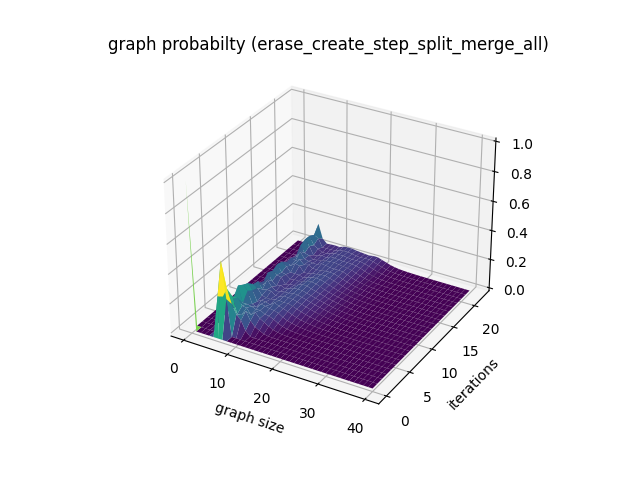
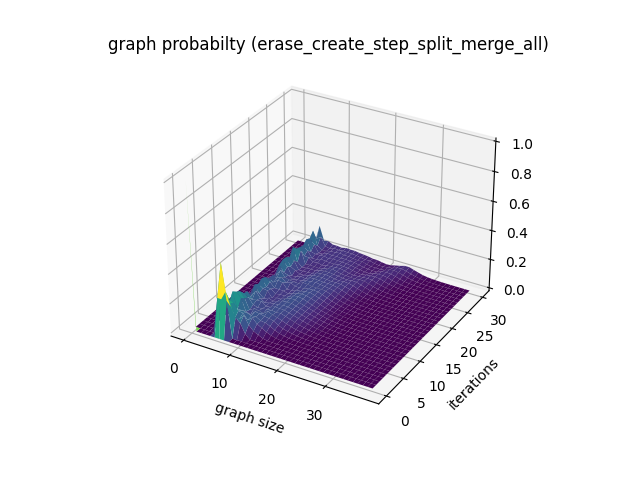
parallelized graph reduction and changed discard_all into reduce_and_discard

diff --git a/v5/quantum/state.hpp b/v5/quantum/state.hpp
@@ -4,7 +4,7 @@
 #include "../classical/graph.hpp"
 #include <tbb/concurrent_unordered_map.h>
 #include <tbb/concurrent_vector.h>
-#include <map>
+#include <tbb/concurrent_map.h>
 
 // check zero probability
 bool inline check_zero(const std::complex<double>& mag) {
@@ -57,7 +57,7 @@ public:
 	void step_all(std::function<tbb::concurrent_vector<std::pair<std::shared_ptr<graph_t>, std::complex<double>>>(std::shared_ptr<graph_t> g)> rule);
 
 	// limit graphs
-	void discard_graphs(size_t n_graphs);
+	void reduce_and_discard(size_t n_graphs);
 };
 
 // insert operators 
@@ -66,45 +66,67 @@ void state::reduce_all() {
 		printf("reducing %ld graphs...\n", graphs_.size());
 	#endif
 
-    for(auto it = graphs_.begin(); it != graphs_.end();) {
+	graph_map_t buff;
+	buff.swap(graphs_);
+
+	#pragma omp parallel
+	#pragma omp single
+    for(auto it = buff.begin(); it != buff.end();) {
     	// range of similar graphs to delete
-    	auto upper = graphs_.equal_range(it->first).second;
+    	auto const graph = it->first;
+    	auto const range = buff.equal_range(graph);
 
-    	for(auto jt = std::next(it); jt != upper; ++jt)
-        	it->second += jt->second;
+    	// next iteration
+    	it = range.second;
 
-    	// if the first graphgs has a zero probability, erase the whole range
-    	if (!check_zero(it->second))
-    		++it;
-    	
-    	it = graphs_.unsafe_erase(it, upper);
+    	#pragma omp task
+    	{
+    		std::complex<double> acc = 0;
+    		for(auto jt = range.first; jt != range.second; ++jt)
+        		acc += jt->second;
+
+	    	// if the first graphgs has a zero probability, erase the whole range
+	    	if (!check_zero(acc))
+	    		graphs_.insert({graph, acc});
+    	}
     }
+
+    buff.clear();
 }
 
-void state::discard_graphs(size_t n_graphs) {
+void state::reduce_and_discard(size_t n_graphs) {
 	if (graphs_.size() < n_graphs)
-		return;
+		return reduce_all();
 
-	/* compute sure threshold proba */
-	double threshold_proba = 1 / (double)n_graphs;
-	size_t const num_graph_delete = graphs_.size() - n_graphs;
+	tbb::concurrent_multimap<double, std::pair<std::shared_ptr<graph_t>, std::complex<double>>> map;
 
-	std::multimap<double, std::shared_ptr<graph_t>> map;
-	for (auto & [graph, mag] : graphs_) {
-		double proba = std::norm(mag);
+	#pragma omp parallel
+	#pragma omp single
+    for(auto it = graphs_.begin(); it != graphs_.end();) {
+    	// range of similar graphs to delete
+    	auto const graph = it->first;
+    	auto const range = graphs_.equal_range(graph);
 
-		if (proba < threshold_proba) {
-			map.insert({proba, graph});
+    	// next iteration
+    	it = range.second;
 
-			if (map.size() == num_graph_delete + 1) {
-				threshold_proba = map.rbegin()->first;
-				map.erase(std::prev(map.end()));
-			}
-		}
-	}
+    	#pragma omp task
+    	{
+    		std::complex<double> acc = 0;
+    		for(auto jt = range.first; jt != range.second; ++jt)
+        		acc += jt->second;
 
-	for (auto & [_, key] : map)
-		graphs_.unsafe_erase(key);
+	    	// if the first graphgs has a zero probability, erase the whole range
+	    	if (!check_zero(acc))
+	    		map.insert({std::norm(acc), {graph, acc}});
+    	}
+    }
+
+    graphs_.clear();
+    auto it = map.begin(); 
+    for (int i = 0; i < n_graphs && it != map.end(); ++i, ++it)
+    #pragma omp task
+    	graphs_.insert(it->second);
 }
 
 // dynamic 
@@ -124,6 +146,8 @@ void state::step_all(std::function<tbb::concurrent_vector<std::pair<std::shared_
   			graphs_.insert({graph_, mag_ * mag});
   		}
   	}
+
+  	buff.clear();
 }
 
 //---------------------------------------------------------

diff --git a/v5/classical/graph.hpp b/v5/classical/graph.hpp
@@ -23,8 +23,8 @@ public:
   	typedef std::pair<unsigned short int, op_type_t> op_t;
 
   	// particules positions
-  	std::vector<bool /*char*/> mutable left; //not bool to not use space efficient bool vectors
-	std::vector<bool /*char*/> mutable right;
+  	std::vector<char /*bool*/> mutable left; //not bool to not use space efficient bool vectors
+	std::vector<char /*bool*/> mutable right;
 
 private:
 	// variables 
@@ -37,12 +37,12 @@ private:
 public:
 	// normal constructors 
 	graph(short int n) {
-		left = std::vector<bool /*char*/>(n, false);
-		right = std::vector<bool /*char*/>(n, false);
+		left = std::vector<char /*bool*/>(n, false);
+		right = std::vector<char /*bool*/>(n, false);
 		name_ = graph_name_t(n);
 	}
 
-	graph(std::vector<bool /*char*/> left_, std::vector<bool /*char*/> right_) : left(left_), right(right_) {
+	graph(std::vector<char /*bool*/> left_, std::vector<char /*bool*/> right_) : left(left_), right(right_) {
 		if (left.size() != right.size())
 			throw;
 

diff --git a/v5/tests/quantum_iteration.cpp b/v5/tests/quantum_iteration.cpp
@@ -37,11 +37,10 @@ int main() {
 
         printf("\nstep_split_merge_all() ...\n"); s->step_all(rule);
 
-        //if (i % 3 == 0) {
-            printf("reduce_all() ...\n\n"); s->reduce_all(); printf("\n");
-        //}	
-
-        //s->discard_graphs(300);
+        printf("reduce_all() ...\n\n");
+        s->reduce_all();
+        //s->reduce_and_discard(300);
+        printf("\n");
    	}
 
     printf("%ld graph", s->graphs().size());

diff --git a/v5/grapher/quantum_iteration.cpp b/v5/grapher/quantum_iteration.cpp
@@ -40,12 +40,8 @@ int main() {
     
     for (int i = 1; i < N_ITER + 1; ++i) {
         s->step_all(rule);
-        s->reduce_all();
-
+        s->reduce_and_discard(MAX_NUM_GRAPHS);
         serialize_state_to_json(s);
-
-        if (i != N_ITER)
-            s->discard_graphs(MAX_NUM_GRAPHS);
    	}
 
     end_json();

diff --git a/v5/tests/graph_test.cpp b/v5/tests/graph_test.cpp
@@ -10,7 +10,7 @@ int main() {
   while (true) {
     printf("\n----------------------------------------------------\n\nPleas enter next graph (Ctrl+C to exit):\n");
 
-    std::vector<bool /*char*/> left, right;
+    std::vector<char /*bool*/> left, right;
     graph_t* g_1;
 
     bool l = false;

diff --git a/v5/tests/quantum_injectivity_test.cpp b/v5/tests/quantum_injectivity_test.cpp
@@ -16,7 +16,7 @@ int main() {
 	while (true) {
 		printf("\n----------------------------------------------------\n\nPleas enter next graph (Ctrl+C to exit):\n");
 
-		std::vector<bool /*char*/> left, right;
+		std::vector<char /*bool*/> left, right;
 	    graph_t* g_1;
 
 	    bool l = false;

diff --git a/v5/tests/state_test.cpp b/v5/tests/state_test.cpp
@@ -16,7 +16,7 @@ int main() {
 	while (true) {
 		printf("\n----------------------------------------------------\n\nPleas enter next graph (Ctrl+C to exit):\n");
 
-		std::vector<bool /*char*/> left, right;
+		std::vector<char /*bool*/> left, right;
 	    graph_t* g_1;
 
 	    bool l = false;
